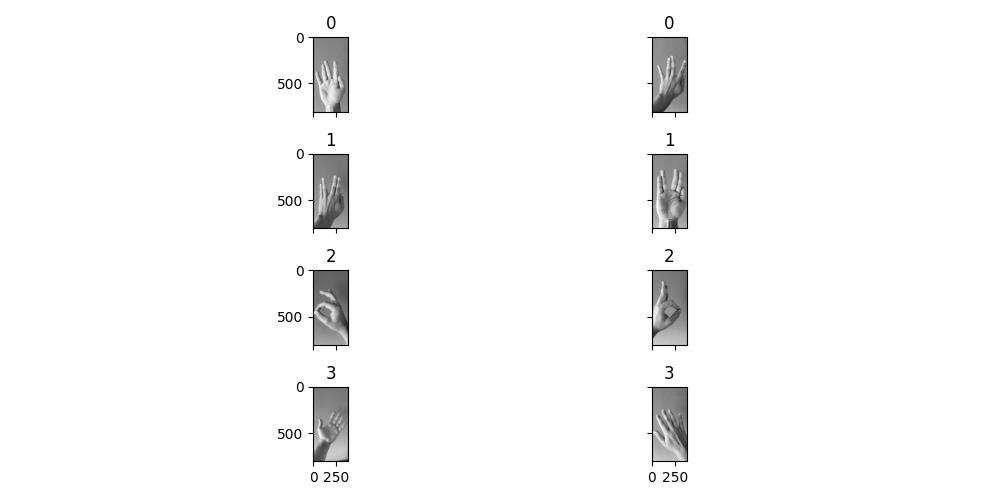
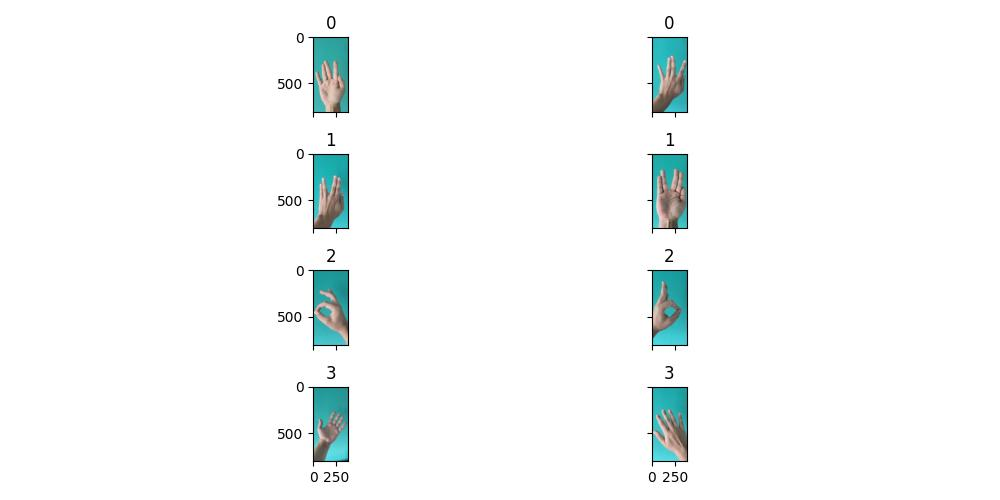
Feature: masked dataset & contours dataset

diff --git a/src/database.py b/src/database.py
@@ -8,7 +8,9 @@ import sys
 import numpy as np
 
 def get_class_by_path(path):
+    # get class index based on path name
     return path.split('/')[1].split('\\')[0]
+
 
 def get_train_and_test_dataset(dataset_dir, percent, scale_factor):
     dataset_train = []
@@ -16,13 +18,15 @@ def get_train_and_test_dataset(dataset_dir, percent, scale_factor):
     labels_train = []
     labels_test = []
 
+    # get random indexes
     random.seed(42)
     indexes = random.sample(range(0, 9), percent)
 
+    # read all data and split in train and set based on random indexes
     for class_index in range(len(glob.glob(dataset_dir + '/*'))):
         for index, path in enumerate(glob.glob(dataset_dir + '/' + str(class_index) + '/*')):
             img_original = io.imread(path)
-            img_original = helpers.rgb2gray(img_original)
+            # img_original = helpers.rgb2gray(img_original)
             new_h = int(np.shape(img_original)[0] * scale_factor)
             new_w = int(np.shape(img_original)[1] * scale_factor)
             if index in indexes:
@@ -32,13 +36,13 @@ def get_train_and_test_dataset(dataset_dir, percent, scale_factor):
                 dataset_test.append(resize(img_original, [new_h, new_w], anti_aliasing=True))
                 labels_test.append(get_class_by_path(path))
 
+    # return train & test dataset, train & test labels
     return dataset_train, labels_train, dataset_test, labels_test, len(glob.glob(dataset_dir + '/*'))
 
 
-def dataset_visualisation(dataset_train, labels_train, dataset_test, labels_test, number_classes, percent, show=True, save=True):
+def dataset_visualisation(dataset_train, labels_train, dataset_test, labels_test, number_classes, percent, fig_name_suffix = '', show=True, save=True):
     # train
-    fig, ax = plt.subplots(number_classes, percent, sharex='col', sharey='row', figsize=(10, 5))
-
+    fig, ax = plt.subplots(number_classes, percent, figsize=(10, 5))
     for i in range(number_classes):
         for j in range(percent):
             ax[i][j].imshow(dataset_train[i * percent + j], cmap='gray')
@@ -48,18 +52,71 @@ def dataset_visualisation(dataset_train, labels_train, dataset_test, labels_test
     if show:
         plt.show()
     if save:
-        fig.savefig('results/training_data_visualisation.jpg')
+        fig.savefig('results/training_data_visualisation' + fig_name_suffix + '.jpg')
 
     # test
-    fig, ax = plt.subplots(number_classes, 10-percent, sharex='col', sharey='row', figsize=(10, 5))
+    fig, ax = plt.subplots(number_classes, 10 - percent, figsize=(10, 5))
 
     for i in range(number_classes):
-        for j in range(10-percent):
-            ax[i][j].imshow(dataset_test[i * (10-percent) + j], cmap='gray')
-            ax[i][j].set_title(labels_test[i * (10-percent) + j])
+        for j in range(10 - percent):
+            ax[i][j].imshow(dataset_test[i * (10 - percent) + j], cmap='gray')
+            ax[i][j].set_title(labels_test[i * (10 - percent) + j])
 
     plt.tight_layout()
     if show:
         plt.show()
     if save:
-        fig.savefig('results/testing_data_visualisation.jpg')
+        fig.savefig('results/testing_data_visualisation' + fig_name_suffix + '.jpg')
+
+
+def dataset_mask(dataset_train, dataset_test, histogram = False):
+
+    # test image
+    if histogram:
+        image = dataset_train[0]
+        fig = plt.figure()
+        plt.imshow(image)
+        plt.show()
+        fig.savefig('results/first_image_for_histogram.jpg')
+
+        fig = plt.figure()
+        red, green, blue = image[:, :, 0], image[:, :, 1], image[:, :, 2]
+
+        red_pixels = red.flatten()
+        green_pixels = green.flatten()
+        blue_pixels = blue.flatten()
+
+        plt.hist(red_pixels, bins=256, density=False, color='red', alpha=0.5)
+        plt.hist(green_pixels, bins=256, density=False, color='green', alpha=0.4)
+        plt.hist(blue_pixels, bins=256, density=False, color='blue', alpha=0.3)
+
+        plt.xticks(ticks=np.linspace(0, 1, 17), labels=range(0, 257, 16))
+        plt.title("Color Histogram")
+        plt.xlabel("Color value")
+        plt.ylabel("Pixel count")
+        plt.show()
+        fig.savefig('results/histogram_first_image_train.jpg')
+
+    # get mask data for train and test
+    dataset_train_mask = list(map(helpers.hand_mask, dataset_train))
+    dataset_test_mask = list(map(helpers.hand_mask, dataset_test))
+
+    # return mask dataset train & test
+    return dataset_train_mask, dataset_test_mask
+
+
+def dataset_contours(dataset_train_mask, dataset_test_mask, dataset_train, dataset_test):
+
+    # get contours for masked dataset and for original dataset
+    train_packed = list(map(helpers.hand_contour, dataset_train_mask, dataset_train))
+    test_packed = list(map(helpers.hand_contour, dataset_test_mask, dataset_test))
+
+    # unpack
+    dataset_test_mask_contour = [i[0] for i in test_packed]
+    dataset_test_contour = [i[1] for i in test_packed]
+    dataset_train_mask_contour = [i[0] for i in train_packed]
+    dataset_train_contour = [i[1] for i in train_packed]
+
+    # return contours for masked dataset and for original dataset
+    return dataset_train_mask_contour, dataset_train_contour, dataset_test_mask_contour, dataset_test_contour
+

diff --git a/main.py b/main.py
@@ -1,4 +1,4 @@
-import src.database as dataset
+import src.database as database
 
 # ___________________________________________
 # PARAMETERS
@@ -11,5 +11,14 @@ percent = 8
 # MAIN
 # ___________________________________________
 if __name__ == '__main__':
-    dataset_train, labels_train, dataset_test, labels_test, number_classes = dataset.get_train_and_test_dataset(data_dir, percent, scale_factor)
-    dataset.dataset_visualisation(dataset_train, labels_train, dataset_test, labels_test, number_classes, percent)
+    dataset_train, labels_train, dataset_test, labels_test, number_classes = database.get_train_and_test_dataset(data_dir, percent, scale_factor)
+    database.dataset_visualisation(dataset_train, labels_train, dataset_test, labels_test, number_classes, percent)
+
+    # mask visualisation
+    dataset_train_mask, dataset_test_mask = database.dataset_mask(dataset_train, dataset_test)
+    database.dataset_visualisation(dataset_train_mask, labels_train, dataset_test_mask, labels_test, number_classes, percent, '_mask')
+
+    # find contours and crop
+    dataset_train_mask_contour, dataset_train_contour, dataset_test_mask_contour, dataset_test_contour = database.dataset_contours(dataset_train_mask, dataset_test_mask, dataset_train, dataset_test)
+    database.dataset_visualisation(dataset_train_mask_contour, labels_train, dataset_test_mask_contour, labels_test, number_classes, percent, '_mask_contour')
+    database.dataset_visualisation(dataset_train_contour, labels_train, dataset_test_contour, labels_test, number_classes, percent, '_contour')

diff --git a/src/helpers.py b/src/helpers.py
@@ -1,3 +1,33 @@
 import numpy as np
+import cv2
 
-rgb2gray = lambda img: np.uint8(0.299 * img[:,:,0] + 0.587 * img[:,:,1] + 0.144 * img[:, :, 2])
+rgb2gray = lambda img: np.uint8(0.299 * img[:, :, 0] + 0.587 * img[:, :, 1] + 0.144 * img[:, :, 2])
+
+
+def hand_mask(img):
+    # return mask for image
+    mask = img[..., 0] > 90/255
+    mask[mask > 0] = 255
+
+    return mask
+
+
+def hand_contour(img, img_orig):
+    # get contour for image
+    contur, _ = cv2.findContours(img.astype(np.uint8), cv2.RETR_TREE, cv2.CHAIN_APPROX_SIMPLE)
+
+    # get max area for contours
+    arie_max = 0
+    rect_max = np.array([0, 0, 0, 0])
+    for i in contur:
+        temp = cv2.boundingRect(i)
+        if temp[2] * temp[3] > arie_max:  # temp[2]*temp[3] rect (rect = (x, y, w, h))
+            arie_max = temp[2] * temp[3]
+            rect_max = temp
+
+    # crop and return mask image and original image
+    return crop_img(img, rect_max), crop_img(img_orig, rect_max)
+
+
+def crop_img(img, rect):
+    return img[rect[1]:(rect[1] + rect[3]), rect[0]:(rect[0] + rect[2])]
